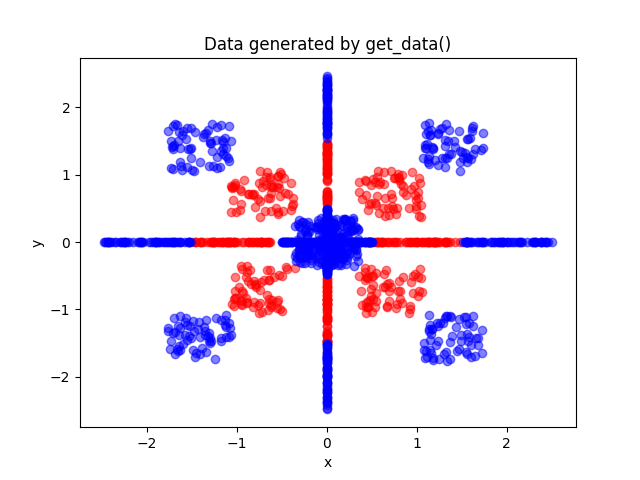
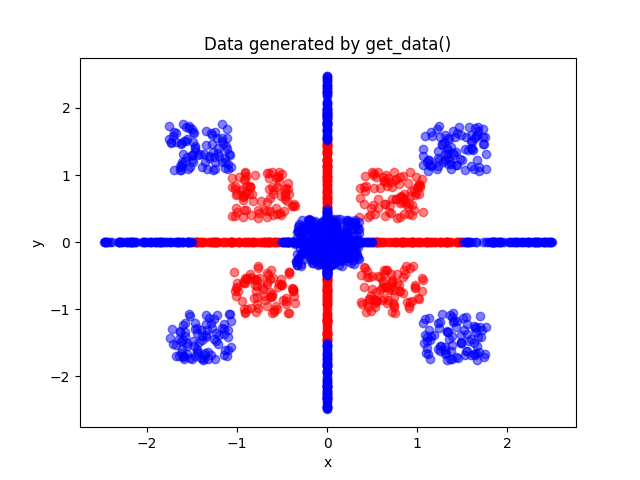
Increase granularity

diff --git a/generate_data.py b/generate_data.py
@@ -16,8 +16,8 @@ def generate_data():
     np.random.seed(5)
 
     for i in range(3):
-        for j in range(8):
-            for k in range(60):
+        for j in range(32):
+            for k in range(20):
                 x_coord = (i - 0.5 + np.random.random_sample()) * np.cos(j/8 * 2*np.pi)
                 y_coord = (i - 0.5 + np.random.random_sample()) * np.sin(j/8 * 2*np.pi)
 
